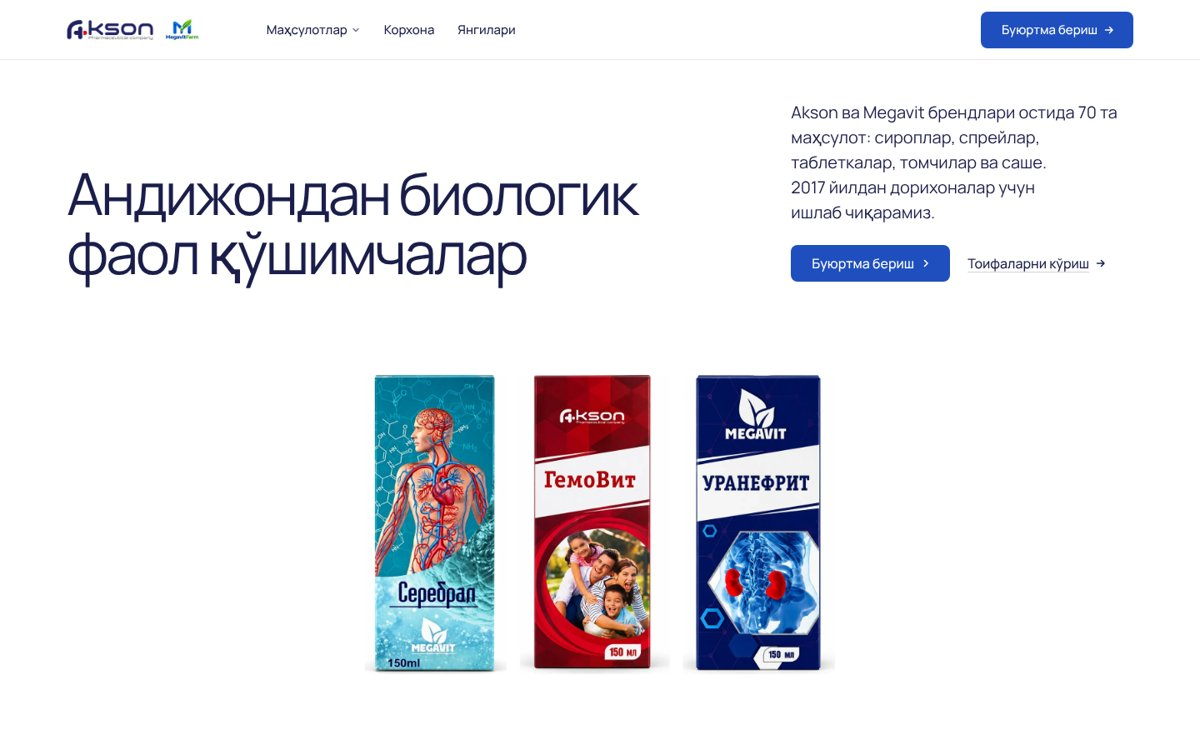
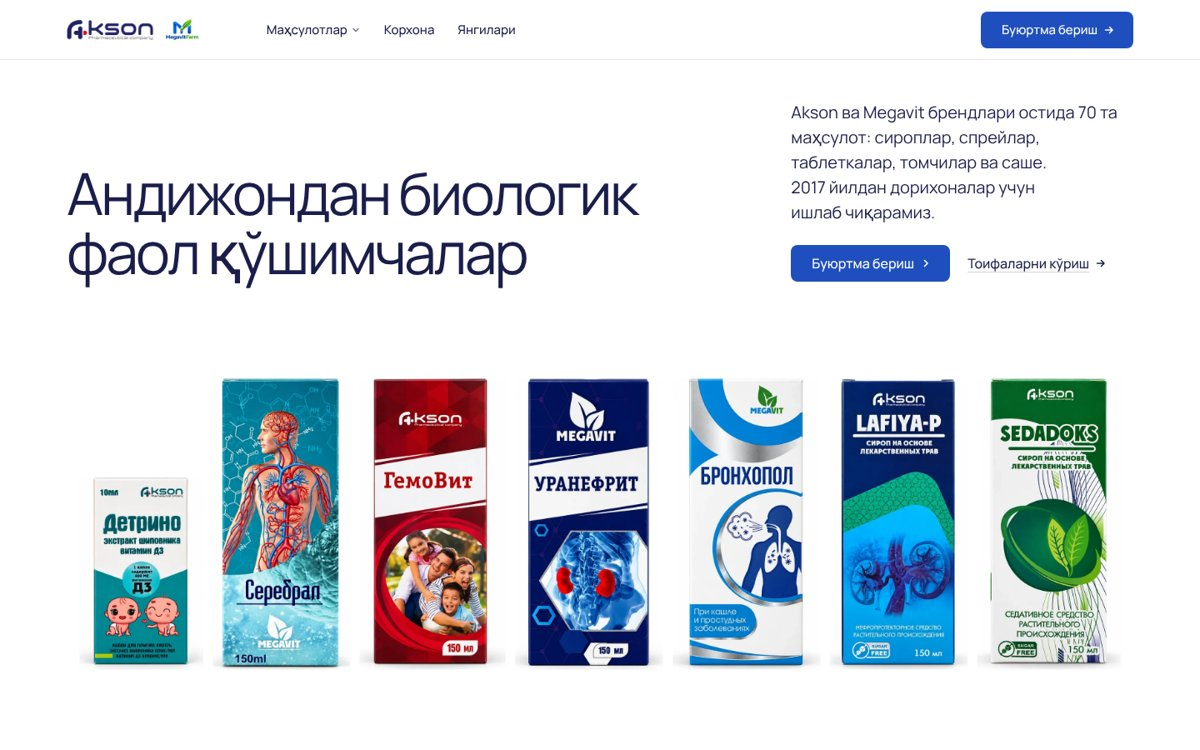
Landing: bigger order picture, phone line-up, layout fixes
Order section gets a two-row tablet pack picture with the phones under
the form; the hero shows three packs on phones instead of a shrunken
seven; tablet and phone section heights fitted.

Claude-Session: https://claude.ai/code/session_01QNZmpNj3EwGW1YNCzSrtpA

Changed region(s): [[0.0617, 0.4907, 0.925, 0.92]]

diff --git a/index.html b/index.html
@@ -46,7 +46,7 @@
   .tile__media.tile__media--pack { background: #fff; }
   .tile__media--pack > img { object-fit: contain; padding: 4%; }
   #range .tile { --tile-ratio: 5 / 4; }
-  @media (min-width: 1024px) { #range .grid > .tile.span-6 { --tile-ratio: 10 / 9; } }
+  @media (min-width: 1024px) { #range .grid > .tile.span-6 { --tile-ratio: 20 / 19; } }
   /* the tablet's footer: the contact column takes the rest of the row the link columns leave */
   @media (min-width: 640px) and (max-width: 1023px) { .footer .footer__col:last-child { grid-column: auto / span 6; } }
   .footer__col a { overflow-wrap: anywhere; }
@@ -61,7 +61,7 @@
   /* the phone sets each category as a row: the pack on the left, its name and line beside it */
   @media (max-width: 639px) {
     #range .grid > .tile { grid-column: 1 / -1; }
-    #range .tile { --tile-ratio: 1 / 1; grid-template-columns: 164px minmax(0, 1fr); column-gap: var(--s-4); row-gap: var(--s-2); }
+    #range .tile { --tile-ratio: 1 / 1; grid-template-columns: min(176px, 46%) minmax(0, 1fr); column-gap: var(--s-4); row-gap: var(--s-2); }
     #range .tile__media { grid-row: 1 / span 2; }
     #range .tile__head { flex-wrap: wrap; gap: 0 var(--s-2); }
     #range .tile__head > h3 { min-width: 0; }
@@ -74,8 +74,13 @@
   @media (max-width: 1023px) { .develop { height: auto; aspect-ratio: 4 / 3; margin-top: var(--s-7); } }
   .contact-phones a { font-variant-numeric: tabular-nums; }
   .contact-phones .rows__value { white-space: nowrap; max-width: none; }
-  .order__media { margin-top: var(--s-5); aspect-ratio: 4 / 1; background: #fff; }
-  @media (max-width: 639px) { .order__media { aspect-ratio: 3 / 1; } }
+  .order__media { aspect-ratio: 3 / 2; background: #fff; }
+  @media (min-width: 640px) and (max-width: 1023px) { #order { --h: 2; } }
+  @media (max-width: 639px) { .order__media { aspect-ratio: 1; } #range .grid { row-gap: var(--s-7); } }
+  .contact-phones { margin-top: var(--s-6); }
+  /* the hero's line-up: seven packs from 640px, three on a phone so each stays readable */
+  .hero__stage > .lineup--phone { display: none; }
+  @media (max-width: 639px) { .hero__stage > .lineup--wide { display: none; } .hero__stage > .lineup--phone { display: block; } }
   .order__media > .frame__img { object-fit: contain; }
   /* Uzbek Cyrillic words run long: the phone h1 steps down so the headline keeps to two lines */
   @media (max-width: 639px) { .hero--product { --ly-h1: 31px; } }
@@ -144,7 +149,8 @@
         <div class="btn-row"><a class="btn btn--primary" href="#order">Буюртма бериш<svg class="m-arrow" viewBox="0 0 12 12" aria-hidden="true"><path class="m-arrow__stem" d="M1 6h8"/><path class="m-arrow__head" d="M4.5 2.5 8 6l-3.5 3.5"/></svg></a><a class="btn btn--secondary" href="#range">Тоифаларни кўриш</a></div>
       </div>
       <div class="hero__stage">
-        <img class="is-cutout" src="img/lineup.webp" srcset="img/lineup-phone.webp 1493w, img/lineup.webp 3300w" sizes="(max-width: 639px) 342px, 1280px" alt="Детрино, Серебрал, Гемовит, Уранефрит, Бронхопол, Лафия-П ва Седадокс қадоқлари бир қаторда" width="3300" height="980" fetchpriority="high" data-source="client" data-subject="the client's own product boxes">
+        <img class="is-cutout lineup--wide" src="img/lineup.webp" alt="Детрино, Серебрал, Гемовит, Уранефрит, Бронхопол, Лафия-П ва Седадокс қадоқлари бир қаторда" width="3300" height="980" fetchpriority="high" data-source="client" data-subject="the client's own product boxes">
+        <img class="is-cutout lineup--phone" src="img/lineup-phone.webp" alt="Серебрал, Гемовит ва Уранефрит қадоқлари" width="1493" height="980" loading="lazy" data-source="client" data-subject="the client's own product boxes">
       </div>
     </div></div>
   </section>
@@ -238,15 +244,10 @@
       <div class="grid grid--top">
         <div class="span-6">
           <div class="section-head">
-            <h2 id="order-h">Дорихона ва дистрибьюторлар учун буюртма</h2>
+            <h2 id="order-h">Дорихоналар учун буюртма</h2>
             <p>Минимал буюртма, нарх ва етказиб бериш шартларини телефонда айтиб берамиз. Ёки формани тўлдиринг, ўзимиз қўнғироқ қиламиз.</p>
           </div>
-          <ul class="rows contact-phones">
-            <li><span class="rows__name">Сотув бўлими</span><span class="rows__value"><a class="link" href="tel:+998912740000">91 274 00 00</a></span></li>
-            <li><span class="rows__name">Сотув бўлими</span><span class="rows__value"><a class="link" href="tel:+998975840000">97 584 00 00</a></span></li>
-            <li><span class="rows__name">Сотув бўлими</span><span class="rows__value"><a class="link" href="tel:+998902547000">90 254 70 00</a></span></li>
-          </ul>
-          <div class="frame frame--photo order__media"><img class="frame__img" src="img/packs-tablets.webp" alt="Кальмакс Д3, Магпарим B6, Цинк Актив, Аксон Энерджи ва Гелмаксон таблеткалари қадоқлари" width="1400" height="288" loading="lazy" data-source="client"></div>
+          <div class="frame frame--photo order__media"><img class="frame__img" src="img/packs-tablets.webp" alt="Кальмакс Д3, Магпарим B6, Цинк Актив, Аксон Энерджи ва Гелмаксон таблеткалари қадоқлари" width="1600" height="1200" loading="lazy" data-source="client"></div>
         </div>
         <div class="span-6 start-7">
           <form class="form" action="mailto:aksonmegavit@gmail.com" method="post" enctype="text/plain" data-endpoint="" data-sent="Буюртмангиз қабул қилинди. Бир иш куни ичида қўнғироқ қиламиз." novalidate>
@@ -266,6 +267,11 @@
             <p class="form__status" role="status" data-form-status></p>
             <p class="t-small muted">Бир иш куни ичида жавоб берамиз.</p>
           </form>
+          <ul class="rows contact-phones">
+            <li><span class="rows__name">Сотув бўлими</span><span class="rows__value"><a class="link" href="tel:+998912740000">91 274 00 00</a></span></li>
+            <li><span class="rows__name">Сотув бўлими</span><span class="rows__value"><a class="link" href="tel:+998975840000">97 584 00 00</a></span></li>
+            <li><span class="rows__name">Сотув бўлими</span><span class="rows__value"><a class="link" href="tel:+998902547000">90 254 70 00</a></span></li>
+          </ul>
         </div>
       </div>
     </div>
@@ -288,7 +294,7 @@
           <p class="footer__lede">2017 йилдан Андижонда биологик фаол қўшимчалар ишлаб чиқарамиз.</p>
         </div>
         <div class="span-2 footer__col"><h3>Маҳсулотлар</h3><ul><li><a href="#range">Тоифалар</a></li><li><a href="#new">Янгилари</a></li><li><a href="https://aksonmegavit.uz/catalog.html">Тўлиқ каталог</a></li></ul></div>
-        <div class="span-2 footer__col"><h3>Корхона</h3><ul><li><a href="#about">Биз ҳақимизда</a></li><li><a href="#order">Ҳамкорлик</a></li></ul></div>
+        <div class="span-2 footer__col"><h3>Корхона</h3><ul><li><a href="#about">Биз ҳақимизда</a></li><li><a href="https://aksonmegavit.uz/partners.html">Ҳамкорлар учун</a></li></ul></div>
         <div class="span-4 footer__col"><h3>Алоқа</h3><ul><li><a href="tel:+998975840000">97 584 00 00</a></li><li><a href="mailto:aksonmegavit@gmail.com">aksonmegavit@gmail.com</a></li><li>Бухгалтерия: 99 998 20 02</li><li>Андижон вилояти, Андижон шаҳри</li></ul></div>
       </div>
       <div class="footer__legal">
